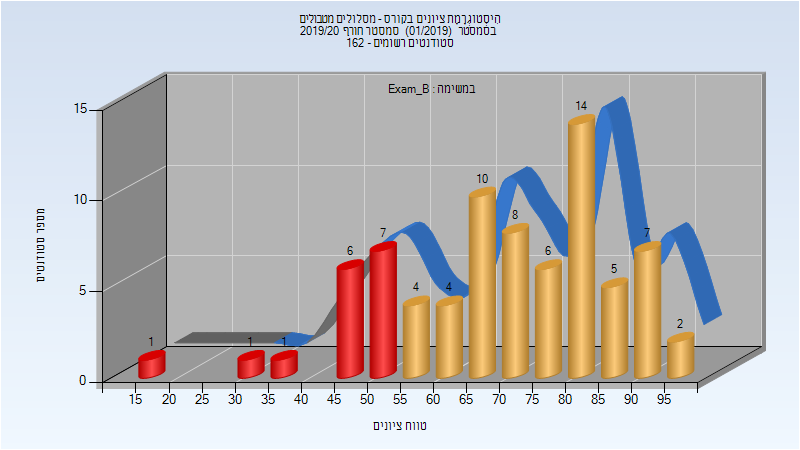
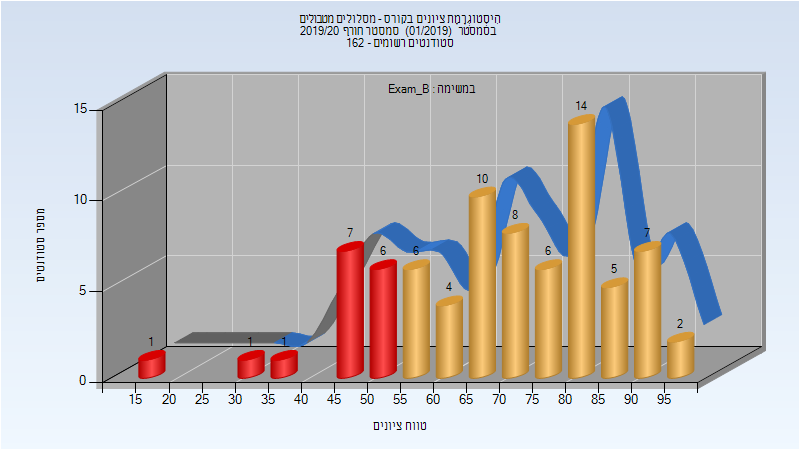
Deploy michael-maltsev/technion-histograms to github.com/michael-maltsev/technion-histograms.git:gh-pages

Changed region(s): [[0.4062, 0.4978, 0.5938, 0.6844], [0.4062, 0.6533, 0.4375, 0.7156], [0.375, 0.7156, 0.4062, 0.7467]]

diff --git a/134113/index.html b/134113/index.html
@@ -579,13 +579,39 @@
 </thead>
 <tbody>
 <tr>
-<td>76</td>
-<td>60/16</td>
+<td>78</td>
+<td>62/16</td>
 <td>79</td>
 <td>17</td>
 <td>97</td>
-<td>70.079</td>
+<td>69.654</td>
 <td>71</td>
+</tr>
+</tbody>
+</table>
+<h3>סופי מועד ב'</h3>
+<p><img src="201901/Final_B.png" alt="201901 Final_B" /></p>
+<table>
+<thead>
+<tr>
+<th>סטודנטים</th>
+<th>עברו/נכשלו</th>
+<th>אחוז עוברים</th>
+<th>ציון מינימלי</th>
+<th>ציון מקסימלי</th>
+<th>ממוצע</th>
+<th>חציון</th>
+</tr>
+</thead>
+<tbody>
+<tr>
+<td>78</td>
+<td>62/16</td>
+<td>79</td>
+<td>17</td>
+<td>97</td>
+<td>71.09</td>
+<td>73</td>
 </tr>
 </tbody>
 </table>
@@ -605,13 +631,13 @@
 </thead>
 <tbody>
 <tr>
-<td>112</td>
-<td>90/22</td>
-<td>80</td>
-<td>3</td>
+<td>157</td>
+<td>139/18</td>
+<td>89</td>
+<td>12</td>
 <td>100</td>
-<td>74.062</td>
-<td>80</td>
+<td>77.35</td>
+<td>82</td>
 </tr>
 </tbody>
 </table>

diff --git a/134113/README.md b/134113/README.md
@@ -180,7 +180,15 @@
 
 | סטודנטים | עברו/נכשלו | אחוז עוברים | ציון מינימלי | ציון מקסימלי | ממוצע | חציון |
 | ---- | ---- | ---- | ---- | ---- | ---- | ---- |
-| 76 | 60/16 | 79 | 17 | 97 | 70.079 | 71 |
+| 78 | 62/16 | 79 | 17 | 97 | 69.654 | 71 |
+
+### סופי מועד ב'
+
+![201901 Final_B](201901/Final_B.png)
+
+| סטודנטים | עברו/נכשלו | אחוז עוברים | ציון מינימלי | ציון מקסימלי | ממוצע | חציון |
+| ---- | ---- | ---- | ---- | ---- | ---- | ---- |
+| 78 | 62/16 | 79 | 17 | 97 | 71.09 | 73 |
 
 ### סופי
 
@@ -188,5 +196,5 @@
 
 | סטודנטים | עברו/נכשלו | אחוז עוברים | ציון מינימלי | ציון מקסימלי | ממוצע | חציון |
 | ---- | ---- | ---- | ---- | ---- | ---- | ---- |
-| 112 | 90/22 | 80 | 3 | 100 | 74.062 | 80 |
+| 157 | 139/18 | 89 | 12 | 100 | 77.35 | 82 |
 
